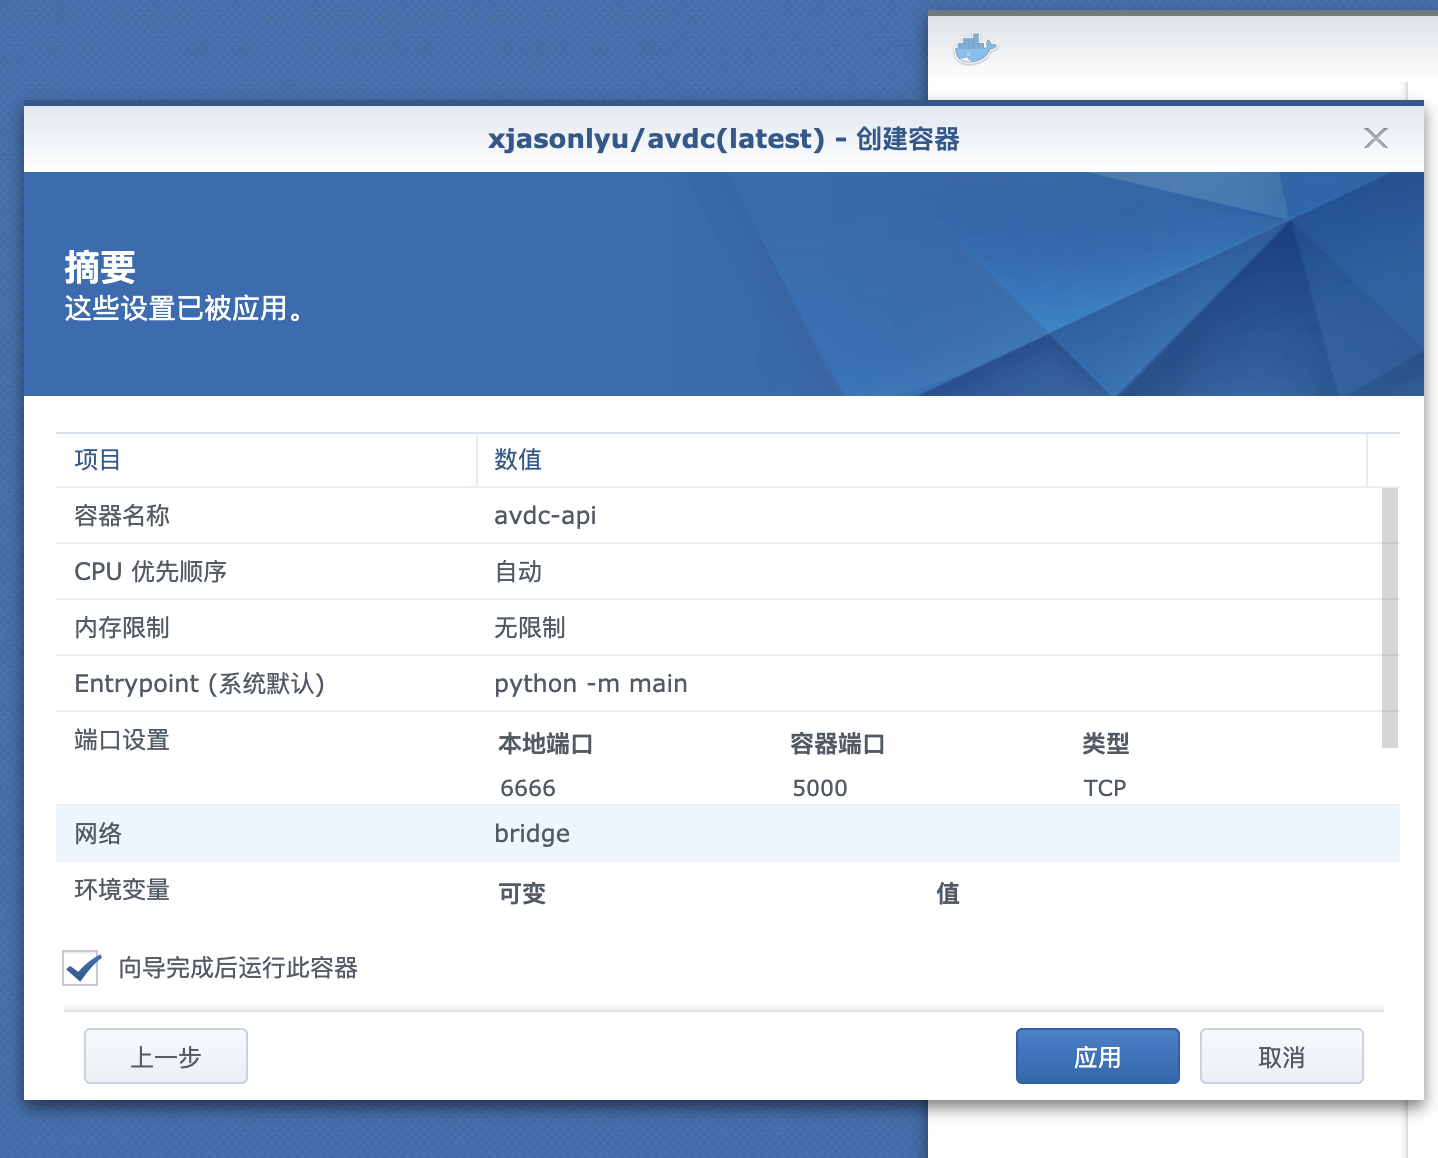
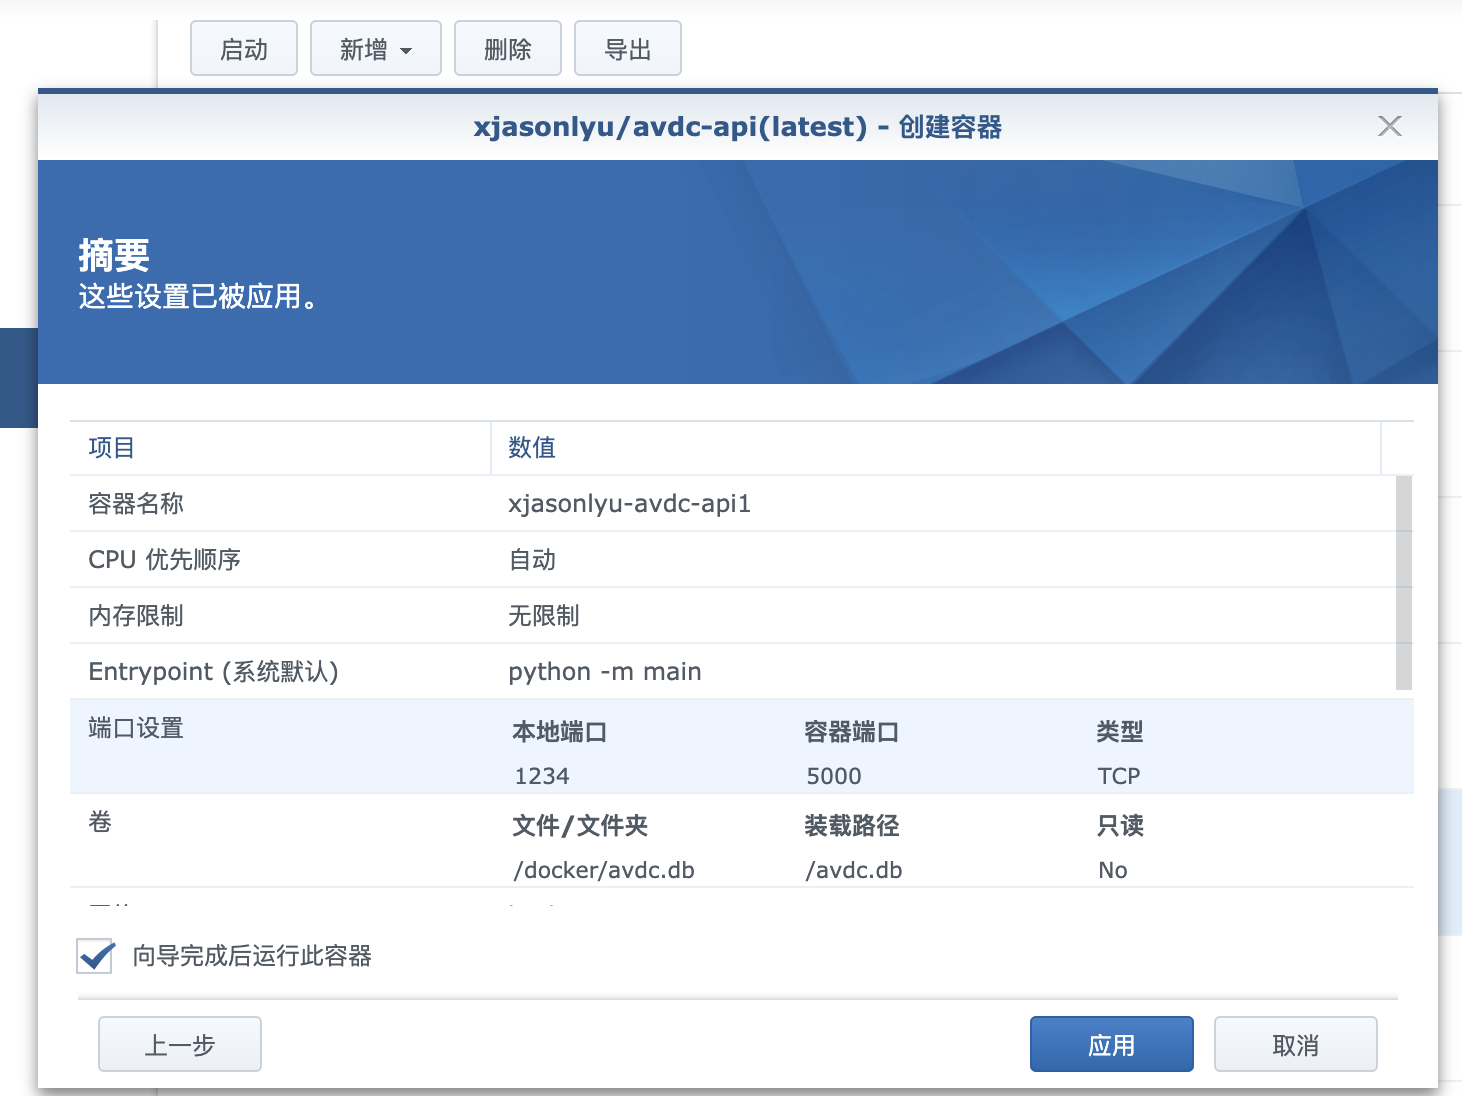
update

diff --git a/Synology 群晖安装（十分推荐）.md b/Synology 群晖安装（十分推荐）.md
@@ -18,9 +18,9 @@
 
 [[/images/start.png]]
 
-接着 高级设置 -> 端口设置，输入合适的端口号，例如`6666`
+接着 高级设置 -> 端口设置，输入合适的端口号，例如`1234`
 
-[[/images/6666.png]]
+[[/images/1234.png]]
 
 进入 卷 设置，添加文件，将之前下载的avdc.db载入
 
